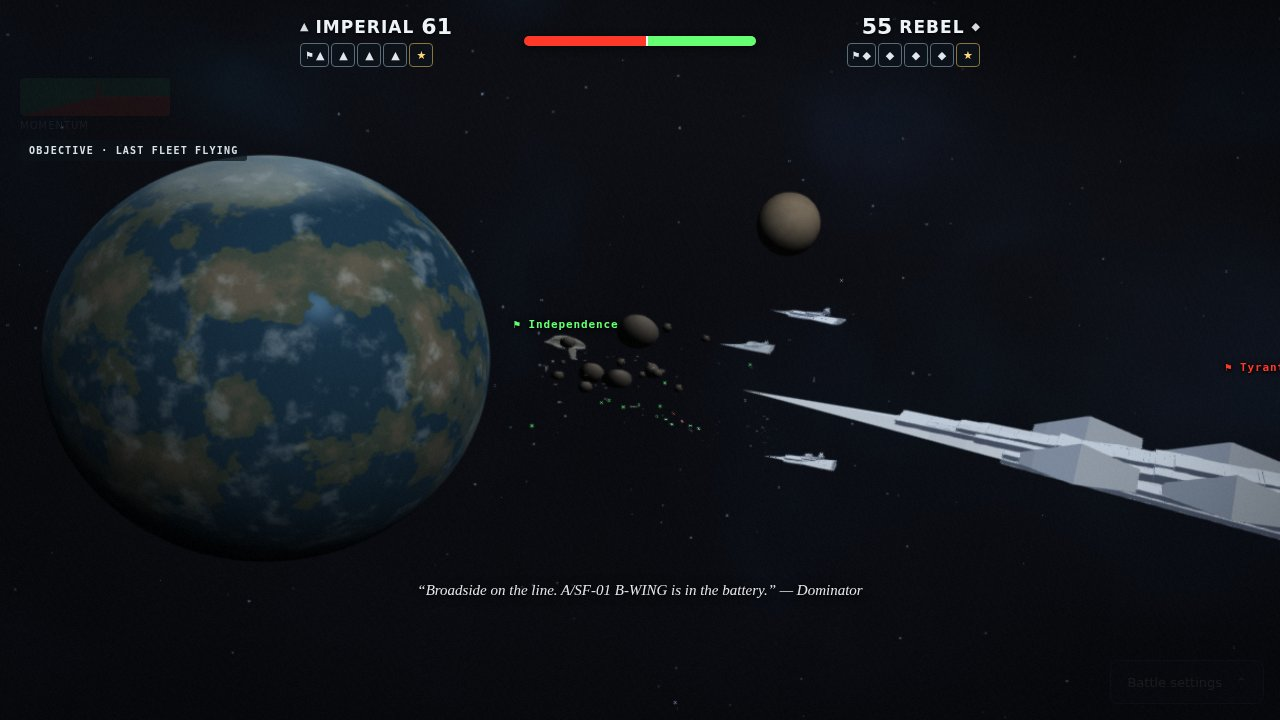
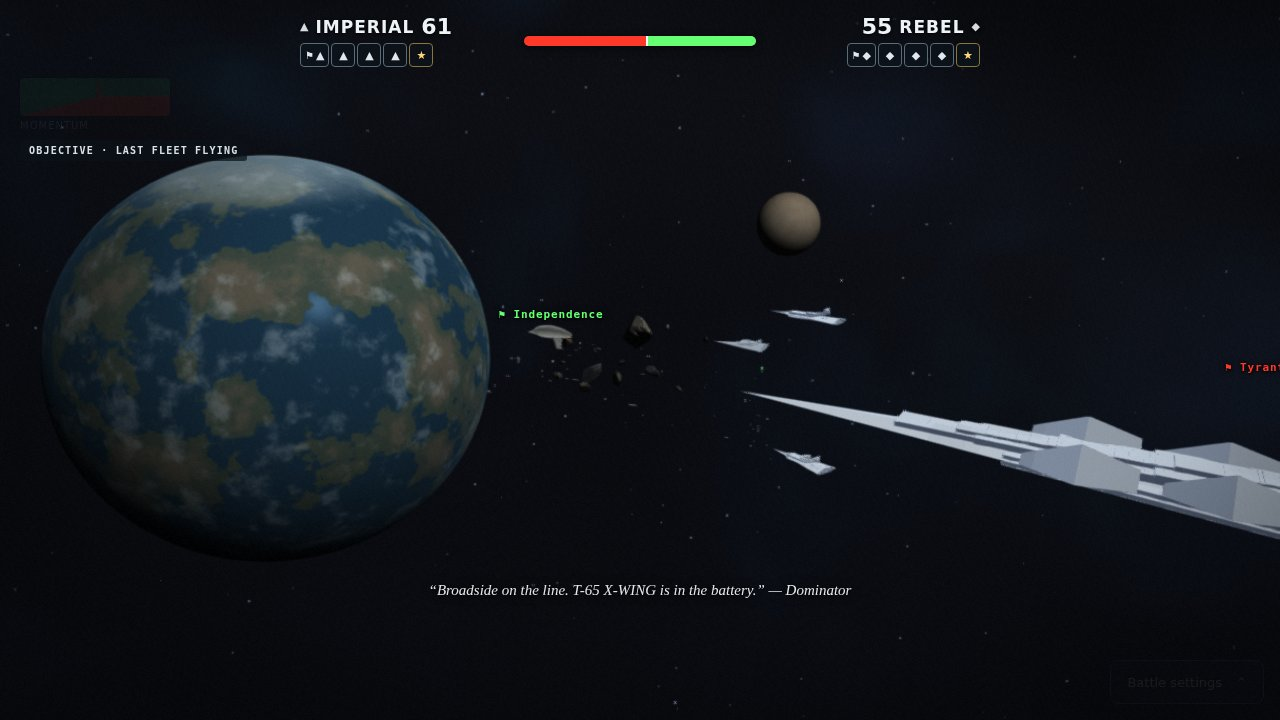
Re-fitted fleet ratings; rock gallery shots; write-up of the owner-feedback round
The picker's simulated odds are re-fitted on the new throttle and First
Ones (253 pairings, 20 a side, 100 s): the First Ones now lead at 2137,
the Borg follow at 1751.

Claude-Session: https://claude.ai/code/session_017SYk1wHuxQV5yPDm67D7KT

diff --git a/design/tribute-new/review/story/index.html b/design/tribute-new/review/story/index.html
@@ -28,7 +28,7 @@
 <section><h2>plan-switch</h2><p class="m">seed 2202 · 56 s · The Imperial plan has failed: they would not come to the line. Switching to the charge.</p><div class="g"><figure><img loading="lazy" src="plan-switch-far.jpg" alt="plan-switch plan-switch-far.jpg"><figcaption>plan-switch-far.jpg · caption: “Obsidian squadron is breaking. 2 ships running to jump clear.” · tags: ⚑ Decree, ⚑ Defender, » Obsidian breaking (2), » Gold breaking (8)</figcaption></figure></div></section>
 <section><h2>objective-station</h2><p class="m">seed 1101</p><div class="g"><figure><img loading="lazy" src="objective-station-far.jpg" alt="objective-station objective-station-far.jpg"><figcaption>objective-station-far.jpg · caption: “Crest squadron is breaking. 2 ships running to jump clear.” · tags: ⚑ Greater Battlecrab, ⚑ Derann, ✦ Vane, » Crest breaking (1), ◎ STATION</figcaption></figure></div></section>
 <section><h2>objective-convoy</h2><p class="m">seed 3303</p><div class="g"><figure><img loading="lazy" src="objective-convoy-mid.jpg" alt="objective-convoy objective-convoy-mid.jpg"><figcaption>objective-convoy-mid.jpg · caption: “Vader's Fist has lost Night 6. Now hunting the Gr-75 Medium Transport that did it.” · tags: ⚑ Majestic, ⚑ Freedom, ✦ Vane, ⇥ JUMP POINT</figcaption></figure></div></section>
-<section><h2>terrain-rocks</h2><p class="m">seed 1107</p><div class="g"><figure><img loading="lazy" src="terrain-rocks-mid.jpg" alt="terrain-rocks terrain-rocks-mid.jpg"><figcaption>terrain-rocks-mid.jpg · caption: ““Broadside on the line. A/SF-01 B-WING is in the battery.” — Dominator” · tags: ⚑ Independence</figcaption></figure><figure><img loading="lazy" src="terrain-rocks-far.jpg" alt="terrain-rocks terrain-rocks-far.jpg"><figcaption>terrain-rocks-far.jpg · caption: ““Broadside on the line. A/SF-01 B-WING is in the battery.” — Dominator” · tags: ⚑ Tyrant, ⚑ Independence</figcaption></figure></div></section>
+<section><h2>terrain-rocks</h2><p class="m">seed 1107</p><div class="g"><figure><img loading="lazy" src="terrain-rocks-mid.jpg" alt="terrain-rocks terrain-rocks-mid.jpg"><figcaption>terrain-rocks-mid.jpg · caption: ““Broadside on the line. T-65 X-WING is in the battery.” — Dominator” · tags: ⚑ Independence</figcaption></figure><figure><img loading="lazy" src="terrain-rocks-far.jpg" alt="terrain-rocks terrain-rocks-far.jpg"><figcaption>terrain-rocks-far.jpg · caption: ““Broadside on the line. T-65 X-WING is in the battery.” — Dominator” · tags: ⚑ Tyrant, ⚑ Independence</figcaption></figure></div></section>
 <section><h2>terrain-nebula</h2><p class="m">seed 1101</p><div class="g"><figure><img loading="lazy" src="terrain-nebula-mid.jpg" alt="terrain-nebula terrain-nebula-mid.jpg"><figcaption>terrain-nebula-mid.jpg · caption: “The Akira covering Alpha 4, hull 49%.” · tags: ⚑ D’deridex Warbird, ⚑ Sovereign</figcaption></figure><figure><img loading="lazy" src="terrain-nebula-far.jpg" alt="terrain-nebula terrain-nebula-far.jpg"><figcaption>terrain-nebula-far.jpg · caption: “The Akira covering Alpha 4, hull 49%.” · tags: ⚑ D’deridex Warbird, ⚑ Sovereign</figcaption></figure></div></section>
 <section><h2>terrain-moon</h2><p class="m">seed 1104</p><div class="g"><figure><img loading="lazy" src="terrain-moon-far.jpg" alt="terrain-moon terrain-moon-far.jpg"><figcaption>terrain-moon-far.jpg · caption: “First shots: Red Leader opens fire on the Tie/in Interceptor.” · tags: ⚑ Aegis, ⚑ Majestic, ◎ STATION</figcaption></figure></div></section>
 <section><h2>ion-005</h2><p class="m">seed 1101 · 48.6 s · MC75-MS89810 ALLIANCE</p><div class="g"><figure><img loading="lazy" src="ion-005-near.jpg" alt="ion-005 ion-005-near.jpg"><figcaption>ion-005-near.jpg · caption: “Red squadron is breaking. 8 ships running to jump clear.”</figcaption></figure><figure><img loading="lazy" src="ion-005-far.jpg" alt="ion-005 ion-005-far.jpg"><figcaption>ion-005-far.jpg · caption: “Red squadron is breaking. 8 ships running to jump clear.” · tags: ⚑ Alliance, » Red breaking (8)</figcaption></figure></div></section>

diff --git a/armada-war-three.html b/armada-war-three.html
@@ -318,6 +318,7 @@ body.intro #battleOptions{opacity:0;pointer-events:none}
 .bcSide b{font:700 17px "Saira Condensed",system-ui;letter-spacing:.06em;white-space:nowrap;overflow:hidden;text-overflow:ellipsis;text-transform:uppercase}.bcSide b.long{font-size:14px;letter-spacing:.02em}
 .bcCount{font:700 22px "Saira Condensed",system-ui;font-variant-numeric:tabular-nums}
 .bcShape{font-size:11px;opacity:.9}
+.bcAlly{flex-basis:100%;order:4;font:600 11px "IBM Plex Mono",monospace;letter-spacing:.06em;color:var(--c);text-shadow:0 1px 3px #000;line-height:1.35;animation:bcIn .5s ease-out}.bcAlly b{font:700 13px "Saira Condensed",system-ui;letter-spacing:.06em;text-transform:uppercase}.bcAllyCount{color:#e9f0f4}.bcSide.b .bcAlly{text-align:right}
 .bcIcons{display:flex;gap:2px;pointer-events:auto;flex-wrap:nowrap;overflow:hidden;flex-basis:100%;order:5}.bcSide.b .bcIcons{justify-content:flex-end}
 .bcIcon{font:11px system-ui;color:#dfe8ee;background:#0d151cb0;border:1px solid #5a6c78;border-radius:4px;min-width:24px;height:24px;padding:0 4px;cursor:pointer}
 .bcIcon.hero{color:#ffd779;border-color:#8a7440}.bcIcon.on{background:#dfe8ee;color:#101820}
@@ -328,6 +329,7 @@ body.intro #battleOptions{opacity:0;pointer-events:none}
 .bcFeedLine .bcShape{color:var(--c);margin-right:6px}
 .bcFeedLine.major{font-weight:600;font-size:13px;background:#101a22e0;box-shadow:0 0 18px -6px var(--c)}
 @keyframes bcIn{from{transform:translateX(18px);opacity:0}to{transform:none;opacity:1}}
+body.bcAllied #bcTicker{top:78px}
 #bcTicker{position:fixed;top:58px;left:50%;transform:translateX(-50%);z-index:7;display:flex;flex-direction:column;align-items:center;gap:4px;pointer-events:none}
 .bcTick{font:600 12px "IBM Plex Mono",monospace;letter-spacing:.12em;text-transform:uppercase;color:#f3f6f8;background:#0b1218b8;padding:5px 12px;border-radius:3px;animation:bcIn .35s ease-out;text-shadow:0 1px 2px #000}
 #bcCaption{position:fixed;left:50%;bottom:118px;transform:translateX(-50%);z-index:6;max-width:min(720px,80vw);text-align:center;font:italic 15px/1.45 Georgia,serif;color:#f1f4f5;text-shadow:0 1px 4px #000,0 0 14px #000;opacity:0;transition:opacity .5s;pointer-events:none}
@@ -401,6 +403,7 @@ body:not(.menu-start) #brand{display:none}
  .bcBar{grid-column:1/-1;order:3}.bcSide b{font-size:14px}.bcCount{font-size:18px}.bcIcons{display:none}
  #brand{display:none}
  #bcFeed{top:calc(62px + env(safe-area-inset-top));right:10px;width:50vw;font-size:10.5px}#bcFeed .bcFeedLine{padding:4px 7px}#bcFeed .bcFeedLine:nth-child(n+4){display:none}
+ body.bcAllied #bcTicker{top:calc(82px + env(safe-area-inset-top))}
  #bcTicker{top:calc(62px + env(safe-area-inset-top));left:10px;transform:none;align-items:flex-start;max-width:44vw}.bcTick{font-size:10px;white-space:normal;letter-spacing:.06em}
  #bcMomentum,#bcMomentumLabel{display:none}
  #bcSpeed{right:auto;left:50%;transform:translateX(-50%);bottom:calc(150px + env(safe-area-inset-bottom));padding:4px;max-width:calc(100vw - 20px)}#bcSpeed button{min-height:40px;min-width:38px;padding:4px 5px}#bcClock{display:none}

diff --git a/armada-three-engine.js b/armada-three-engine.js
@@ -18091,7 +18091,7 @@ const FLEET_FLAVOUR=["Ceramic navies from the Orbital Yard's own drawing boards.
  "A hive that eats the sky.","Rockets, a roadster and a robot at the wheel."];
 // Relative fleet strength (Elo scale) from scripts/fleet-ratings.cjs: every
 // pairing, both sides, 24 ships a side, headless. Diagnostic, not canon.
-const FLEET_RATINGS=[1482,1554,1434,1428,1397,1451,1383,1462,1564,1491,1468,1447,1851,1479,1463,1462,1454,1795,1502,1379,1615,1473,1468]; // bench/ratings/ratings.json: 253 battles, 20 ships a side
+const FLEET_RATINGS=[1434,1491,1461,1424,1374,1394,1423,1489,1445,1481,1456,1453,1751,1477,1460,1438,1481,2137,1486,1395,1592,1512,1448]; // bench/ratings/ratings.json: 253 battles, 20 ships a side
 function fleetOdds(a,b){return BC&&a>=0&&b>=0&&a!==b?BC.odds(FLEET_RATINGS[a],FLEET_RATINGS[b]):null;}
 // Original emblems: a seeded frame, motif and palette per fleet. No logos.
 function fleetEmblem(i,size=40){

diff --git a/armada-war-tribute-new.html b/armada-war-tribute-new.html
@@ -18603,7 +18603,7 @@ const FLEET_FLAVOUR=["Ceramic navies from the Orbital Yard's own drawing boards.
  "A hive that eats the sky.","Rockets, a roadster and a robot at the wheel."];
 // Relative fleet strength (Elo scale) from scripts/fleet-ratings.cjs: every
 // pairing, both sides, 24 ships a side, headless. Diagnostic, not canon.
-const FLEET_RATINGS=[1482,1554,1434,1428,1397,1451,1383,1462,1564,1491,1468,1447,1851,1479,1463,1462,1454,1795,1502,1379,1615,1473,1468]; // bench/ratings/ratings.json: 253 battles, 20 ships a side
+const FLEET_RATINGS=[1434,1491,1461,1424,1374,1394,1423,1489,1445,1481,1456,1453,1751,1477,1460,1438,1481,2137,1486,1395,1592,1512,1448]; // bench/ratings/ratings.json: 253 battles, 20 ships a side
 function fleetOdds(a,b){return BC&&a>=0&&b>=0&&a!==b?BC.odds(FLEET_RATINGS[a],FLEET_RATINGS[b]):null;}
 // Original emblems: a seeded frame, motif and palette per fleet. No logos.
 function fleetEmblem(i,size=40){

diff --git a/WRITEUP.md b/WRITEUP.md
@@ -110,6 +110,27 @@ Those are my next three things to fix.
   It also covers screens and tows that save, probe-based sizes, fracture-edge glow, and convoy and station wins.
 - **Browser against headless.** The Node harness forges box meshes, so its wars differ from the browser's; that was already true on main. The browser against itself is identical across frame rate, time scale, camera, slow motion and forge-worker count (`scripts/determinism-browser.cjs`).
 
+
+## After you watched it
+
+You watched and saw four things my metrics hadn't caught. Each was real, and each is measured before and after in DECISIONS.md.
+
+- **"They all seem to go at the same speed."**
+  - The numbers said speeds varied (each ship's speed swings by about 60% over a war), so I measured what a viewer sees instead: time spent on 5-second plateaus. Fighters sat on one speed 22–42% of the time, and mid-size ships up to 49%. The wanted speed was a step function of mood, and it snapped into place in under a second.
+  - Now the throttle answers the fight: chasing, turning, damage, formation and a pilot's own hand. Engines spool by size. Plateaus fell to 6–10%.
+- **"The asteroids look like giant floating potatoes."**
+  - They did. The shader lit them as perfect spheres, so no bump ever caught the light, and the mesh was a smooth squashed ball.
+  - They're now fractured, elongated, cratered, tumbling rocks lit by their real facets, in four tones.
+- **"The scoreboard should name the reinforcements."**
+  - Reinforcements now get their own line in their colour, with arrived and inbound counts. Their ships no longer inflate the main fleet's number.
+- **"The First Ones jump in, sit still and do nothing."**
+  - Measured, it was worse than that. They arrived over 86 s, my own battle plans parked them on a hold line, only one ancient in the battle could fire at a time, and they fired 4 times in two minutes.
+  - Now the host is present by 17 s. Each ancient fires on its own cycle at whatever cluster its blast will unmake, and the camera cuts to the charge and follows the beam to the shockwave.
+  - The same war that used to crawl ends in 60 s: 61 ships unmade by 10 strikes, none of the ancients lost.
+  - Their simulated odds in the picker went from 1,795 to 2,137 Elo, top of the table. That is the point.
+
+The lesson I'm taking: my story metrics measured what the minds decided, not what the eye sees. Plateau time and "does the camera see the blast" are now measured and tested.
+
 ## Where to look
 
 - **Story gallery:** `design/tribute-new/review/story/index.html`. Every moment in it came from the simulation; only the camera was placed. It includes a top-down plot of each plan.

diff --git a/DECISIONS.md b/DECISIONS.md
@@ -80,7 +80,7 @@ The brief put the viewer first: someone who clicks a link from X and wants to wa
 ## Picker
 
 - **Emblems are original and procedural**: a seeded frame and motif per fleet in its own colours, with no logos.
-- **Odds come from a real headless round-robin**: all 253 pairings at 20 ships a side, 100 simulated seconds each, sides alternating by pairing. An undecided battle scores by remaining strength share. Results are fitted as Bradley–Terry ratings on an Elo scale by `scripts/fleet-ratings.cjs` and stored in `bench/ratings/ratings.json`. At this size the Borg (1851) and First Ones (1795) lead, and the Dominion (1379) and Rebels (1383) trail. The picker labels them "simulated odds"; they aren't canon.
+- **Odds come from a real headless round-robin**: all 253 pairings at 20 ships a side, 100 simulated seconds each, sides alternating by pairing. An undecided battle scores by remaining strength share. Results are fitted as Bradley–Terry ratings on an Elo scale by `scripts/fleet-ratings.cjs` and stored in `bench/ratings/ratings.json`. At this size the First Ones (2137) and the Borg (1751) lead, and the Choir (1374), the Empire (1394) and the Dominion (1395) trail. (Re-fitted after the throttle and First Ones changes; before them the Borg (1851) and First Ones (1795) led.) The picker labels them "simulated odds"; they aren't canon.
 - **No live turning hero ship per card.** Twenty-three forged hero meshes and viewports on a phone menu contradicts the performance targets. The live war behind the menu does that job.
 
 ## Audio
